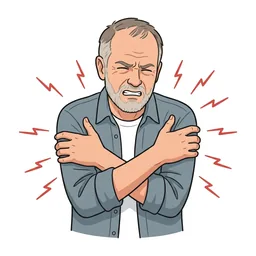
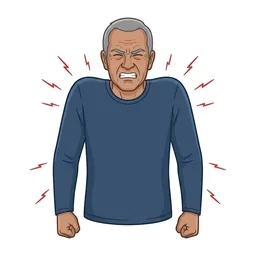
Pain picture: arms down, fists clenched, not crossed arms that look like 'too cold'

diff --git a/tests/unit/phase12b.test.ts b/tests/unit/phase12b.test.ts
@@ -231,19 +231,19 @@ describe('11. A pain question left for later stands directly under "Needs someth
 });
 
 describe('6b. Pain made once more (23 Nov 2026): the one of 22 Nov held its stomach and read as a stomach ache', () => {
-  it('the file is pain_b of devlog/quota_probe_2026-11-23/pain_general, the whole upper body in pain; the old one is kept outside the app', async () => {
+  it('the file is pain_d of devlog/quota_probe_2026-11-23/pain_general, the whole upper body in pain; the old one is kept outside the app', async () => {
     const { readFileSync } = await import('node:fs');
     const root = new URL('../../', import.meta.url);
     const read = (f: string) => readFileSync(new URL(f, root));
     const manifest = JSON.parse(read('devlog/quota_probe_2026-11-20/ASSET_MANIFEST.json').toString('utf8')) as Record<string, { file: string; prompt: string; model: string; date: string; tool: string }>;
     expect(manifest.pain).toMatchObject({ file: 'pictures/pain.webp', model: 'gemini-3.1-flash-image', date: '2026-11-23', tool: 'Google AI Studio, generated offline, bundled; no model call at run time' });
-    expect(manifest.pain.prompt).toMatch(/whole upper body evenly, not pointing at one body part$/);
-    expect(read('web/public/pictures/pain.webp').equals(read('devlog/quota_probe_2026-11-23/pain_general/pain_b.webp'))).toBe(true);
+    expect(manifest.pain.prompt).toMatch(/radiating around the whole body, arms NOT crossed, NOT hugging himself/);
+    expect(read('web/public/pictures/pain.webp').equals(read('devlog/quota_probe_2026-11-23/pain_general/pain_d.webp'))).toBe(true);
     expect(read('devlog/quota_probe_2026-11-23/pain_general/replaced/pain_old.webp').equals(read('devlog/quota_probe_2026-11-20/r9b_regen/pain.webp'))).toBe(true);
     const prompts = JSON.parse(read('devlog/quota_probe_2026-11-23/pain_general/prompts.json').toString('utf8')) as Record<string, { prompt: string; used: boolean }>;
-    expect(Object.keys(prompts)).toEqual(['pain_a', 'pain_b', 'pain_c']);
-    expect(prompts.pain_b).toMatchObject({ prompt: manifest.pain.prompt, used: true });
-    expect([prompts.pain_a.used, prompts.pain_c.used]).toEqual([false, false]);
+    expect(Object.keys(prompts)).toEqual(['pain_a', 'pain_b', 'pain_c', 'pain_d', 'pain_e', 'pain_f']);
+    expect(prompts.pain_d).toMatchObject({ prompt: manifest.pain.prompt, used: true });
+    expect([prompts.pain_a.used, prompts.pain_b.used, prompts.pain_c.used, prompts.pain_e.used, prompts.pain_f.used]).toEqual([false, false, false, false, false]);
     const md = read('PICTOGRAMS.md').toString('utf8');
     expect(md).toMatch(/^\| pain \| an older man from the front, upper body.*\| 23 Nov 2026 /m);
   });

diff --git a/PICTOGRAMS.md b/PICTOGRAMS.md
@@ -86,7 +86,7 @@ head colour and differ by one attribute each; the figures made with Gemini show 
 | change topic | two speech bubbles, grey then blue | drawn by us (SVG) | 18 Nov 2026 (colour; first drawn 11 Nov 2026 as a line drawing) | Apache-2.0 |
 | tired | an adult yawning, heavy eyes | Generated with Gemini 3.1 Flash Image (`gemini-3.1-flash-image`) in Google AI Studio, generated offline, bundled; no model call at run time; reviewed by a person | 20 Nov 2026 | output used under the Gemini API terms; no copyright claimed by us beyond what applies |
 | worried | an adult's face, a worried brow | Generated with Gemini 3.1 Flash Image (`gemini-3.1-flash-image`) in Google AI Studio, generated offline, bundled; no model call at run time; reviewed by a person | 20 Nov 2026 | output used under the Gemini API terms; no copyright claimed by us beyond what applies |
-| pain | an older man from the front, upper body, grimacing with eyes squeezed shut, arms hugging his chest and shoulders, short red pain lines all around the upper body, not at one body part | Generated with Gemini 3.1 Flash Image (`gemini-3.1-flash-image`) in Google AI Studio, generated offline, bundled; no model call at run time; reviewed by a person | 23 Nov 2026 (made again: the one of 22 Nov held its stomach and read as a stomach ache; first made 20 Nov 2026, made again after judge rounds 9 and 9b) | output used under the Gemini API terms; no copyright claimed by us beyond what applies |
+| pain | an older man from the front, upper body, grimacing with eyes squeezed shut, arms down with fists clenched, short red pain lines all around the body, not at one body part | Generated with Gemini 3.1 Flash Image (`gemini-3.1-flash-image`) in Google AI Studio, generated offline, bundled; no model call at run time; reviewed by a person | 23 Nov 2026 (made again: the one of 22 Nov held its stomach and read as a stomach ache; first made 20 Nov 2026, made again after judge rounds 9 and 9b) | output used under the Gemini API terms; no copyright claimed by us beyond what applies |
 | something's wrong | a yellow warning triangle with an exclamation mark | Generated with Gemini 3.1 Flash Image (`gemini-3.1-flash-image`) in Google AI Studio, generated offline, bundled; no model call at run time; reviewed by a person | 20 Nov 2026 | output used under the Gemini API terms; no copyright claimed by us beyond what applies |
 | fall | an older adult on the floor by a fallen chair | Generated with Gemini 3.1 Flash Image (`gemini-3.1-flash-image`) in Google AI Studio, generated offline, bundled; no model call at run time; reviewed by a person | 20 Nov 2026 | output used under the Gemini API terms; no copyright claimed by us beyond what applies |
 | tablets | two white tablets and an orange pill bottle (blank label) | Generated with Gemini 3.1 Flash Image (`gemini-3.1-flash-image`) in Google AI Studio, generated offline, bundled; no model call at run time; reviewed by a person | 20 Nov 2026 | output used under the Gemini API terms; no copyright claimed by us beyond what applies |
